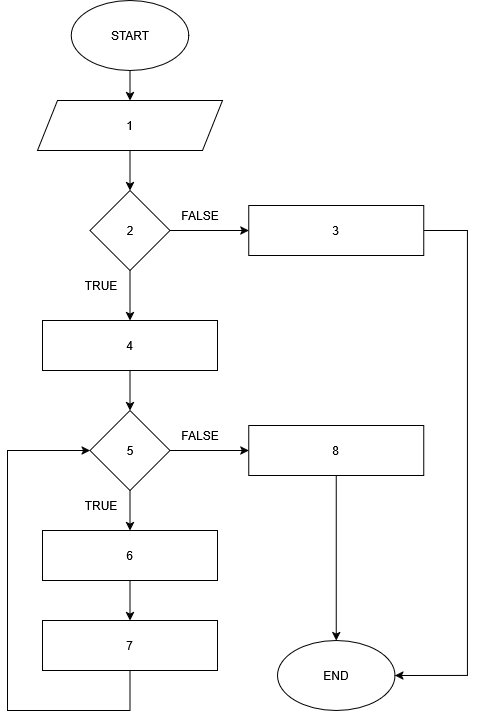
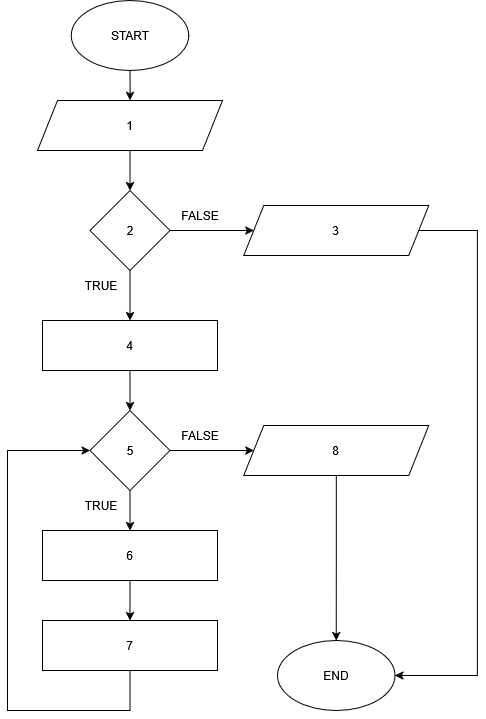
Add print bill functionality with calculations and flowchart
- Implemented a new PHP script (23-index.php) to calculate and print a bill based on unit price and quantity.
- Added functions for total calculation, discount calculation, net amount calculation, and bill printing.
- Created a flowchart (23.drawio) to visualize the process of the billing system.
- Included a PNG version of the flowchart (23.drawio.png) for easier reference.
- Ensured proper handling of negative values in calculations.

diff --git a/23.print bill/23-index.php b/23.print bill/23-index.php
@@ -1,0 +1,72 @@
+<?php
+//data
+$unitPrice = -1000;
+$quantity = -5;
+
+//information
+$total = 0;
+$discount = 0;
+$netAmount = 0;
+
+//calculation 01
+$total = calculateTotal($unitPrice, $quantity);
+//calculation 02
+$discount = calculateDiscount($total);
+//calculation 03
+$netAmount = calculateNetAmount($total, $discount);
+//output
+printBill($unitPrice, $quantity, $total, $discount, $netAmount);
+
+//function Name: calculateTotal
+//pre-condition: $unitPrice and $quantity
+//post-condition: $total
+//description: This function calculates the total price by multiplying the unit price with the quantity.
+//version: 1.0
+function calculateTotal($unitPrice, $quantity) {
+    $total = $unitPrice * $quantity;
+    return $total;
+}
+
+//function Name: calculateDiscount
+//pre-condition: $total
+//post-condition: $discount
+//description: This function calculates the discount based on the total price.
+//version: 1.0
+function calculateDiscount($total) {
+    if ($total > 1000) {
+        $discount = $total * 0.1;
+    } else {
+        $discount = 0;
+    }
+    return $discount;
+}
+
+//function Name: calculateNetAmount
+//pre-condition: $total and $discount
+//post-condition: $netAmount
+//description: This function calculates the net amount by subtracting the discount from the total price.
+//version: 1.0
+function calculateNetAmount($total, $discount) {
+    $netAmount = $total - $discount;
+    return $netAmount;
+}
+
+//function Name: printBill
+//pre-condition: $unitPrice, $quantity, $total, $discount, and $netAmount
+//post-condition: None
+//description: This function prints the bill with the unit price, quantity, total, discount, and net amount.
+//version: 1.0
+function printBill($unitPrice, $quantity, $total, $discount, $netAmount) {
+    echo "------------------------</br>";
+    echo "         ABC Shop       </br>";
+    echo "------------------------</br>";
+    echo "Unit Price: RS." . $unitPrice . "</br>";
+    echo "Quantity: " . $quantity . "</br>";
+    echo "------------------------</br>";
+    echo "Total: RS." . $total . "</br>";
+    echo "Discount: RS." . $discount . "</br>";
+    echo "------------------------</br>";
+    echo "Net Amount: RS." . $netAmount . "</br>";
+    echo "------------------------</br>";
+}
+?>